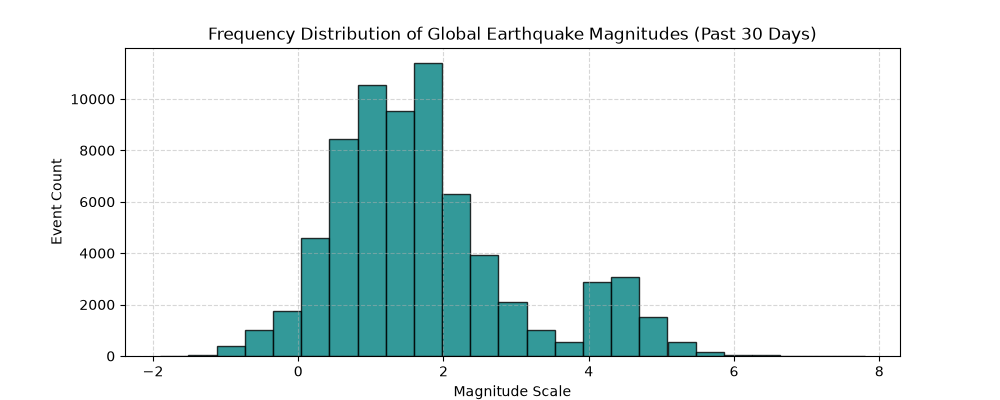
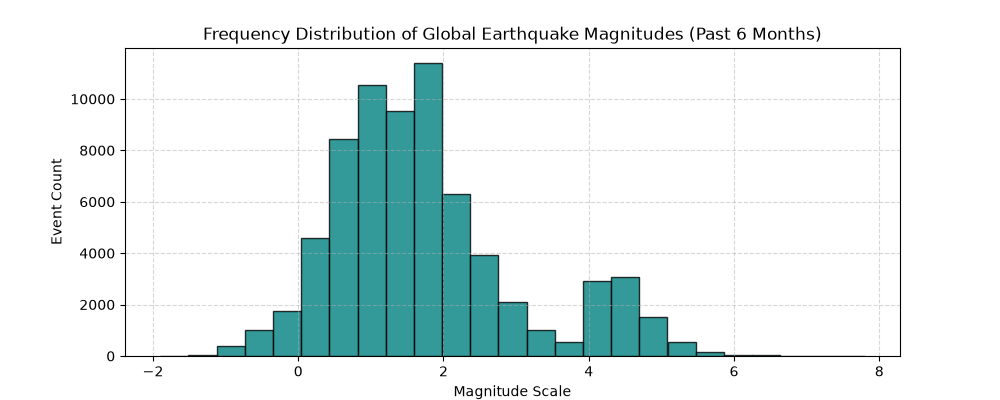
Fixed a issue with the pipeline needing to run in project folder vs in the repository root, also adjusted the analysis output to use a HTML report

Changed region(s): [[0.186, 0.06, 0.837, 0.12], [0.589, 0.69, 0.62, 0.72]]

diff --git a/project_report.html b/project_report.html
@@ -1,0 +1,131 @@
+
+    <!DOCTYPE html>
+    <html lang="en">
+    <head>
+        <meta charset="UTF-8">
+        <meta name="viewport" content="width=device-width, initial-scale=1.0">
+        <title>USGS Earthquake Pipeline Report</title>
+        <style>
+            body { font-family: Arial, sans-serif; margin: 32px; background: #f5f7fa; color: #1f2933; }
+            h1, h2 { color: #102a43; }
+            .panel { background: white; border-radius: 10px; padding: 20px; margin-bottom: 24px; box-shadow: 0 2px 8px rgba(0,0,0,0.05); }
+            .images { display: flex; flex-wrap: wrap; gap: 20px; }
+            .image-card { flex: 1 1 420px; background: white; padding: 12px; border-radius: 8px; border: 1px solid #d9e2ec; }
+            img { width: 100%; height: auto; border-radius: 6px; display: block; }
+            table { border-collapse: collapse; width: 100%; background: #fff; }
+            th, td { border: 1px solid #d9e2ec; padding: 10px; text-align: left; }
+            th { background: #eaf2f8; }
+            .metric { font-size: 1.1rem; font-weight: bold; }
+        </style>
+    </head>
+    <body>
+        <h1>USGS Earthquake Pipeline Report</h1>
+
+        <div class="panel">
+            <h2>Summary</h2>
+            <p class="metric">Depth/Magnitude Correlation: 0.36</p>
+            <p>This report combines the database queries and generated chart outputs for the latest earthquake dataset loaded by the pipeline.</p>
+        </div>
+
+        <div class="panel">
+            <h2>Most Dangerous Earthquakes</h2>
+            <table class="dataframe dataframe">
+  <thead>
+    <tr style="text-align: right;">
+      <th>place_name</th>
+      <th>mag</th>
+      <th>depth</th>
+      <th>time_timestamp</th>
+    </tr>
+  </thead>
+  <tbody>
+    <tr>
+      <td>25 km SW of Kablalan, Philippines</td>
+      <td>7.8</td>
+      <td>56.991</td>
+      <td>2026-06-07T23:37:41.970Z</td>
+    </tr>
+    <tr>
+      <td>66 km NNW of Ende, Indonesia</td>
+      <td>7.8</td>
+      <td>10.000</td>
+      <td>2026-08-14T21:58:21.561Z</td>
+    </tr>
+    <tr>
+      <td>12 km WSW of Pitaloza Arriba, Panama</td>
+      <td>7.7</td>
+      <td>12.647</td>
+      <td>2026-10-09T17:56:06.036Z</td>
+    </tr>
+    <tr>
+      <td>20 km W of Catia La Mar, Venezuela</td>
+      <td>7.5</td>
+      <td>10.000</td>
+      <td>2026-06-24T22:05:04.053Z</td>
+    </tr>
+    <tr>
+      <td>4 km SSW of San José del Palmar, Colombia</td>
+      <td>7.4</td>
+      <td>116.130</td>
+      <td>2026-08-10T12:34:28.828Z</td>
+    </tr>
+  </tbody>
+</table>
+        </div>
+
+        <div class="panel">
+            <h2>Magnitude Type Summary</h2>
+            <table class="dataframe dataframe">
+  <thead>
+    <tr style="text-align: right;">
+      <th>mag_type</th>
+      <th>total_events</th>
+      <th>average_magnitude</th>
+    </tr>
+  </thead>
+  <tbody>
+    <tr>
+      <td>ml</td>
+      <td>44196</td>
+      <td>1.43</td>
+    </tr>
+    <tr>
+      <td>md</td>
+      <td>16944</td>
+      <td>1.21</td>
+    </tr>
+    <tr>
+      <td>mb</td>
+      <td>7597</td>
+      <td>4.43</td>
+    </tr>
+    <tr>
+      <td>mww</td>
+      <td>753</td>
+      <td>5.32</td>
+    </tr>
+    <tr>
+      <td>mwr</td>
+      <td>192</td>
+      <td>4.23</td>
+    </tr>
+  </tbody>
+</table>
+        </div>
+
+        <div class="panel">
+            <h2>Generated Visual Outputs</h2>
+            <div class="images">
+                <div class="image-card">
+                    <h3>Magnitude Distribution</h3>
+                    <img src="earthquake_magnitude_distribution.png" alt="Earthquake magnitude distribution">
+                </div>
+                <div class="image-card">
+                    <h3>Depth vs. Magnitude</h3>
+                    <img src="depth_vs_magnitude.png" alt="Earthquake depth vs magnitude scatter plot">
+                </div>
+            </div>
+        </div>
+    </body>
+    </html>
+    

diff --git a/analysis.py b/analysis.py
@@ -1,8 +1,83 @@
 import sqlite3
 import pandas as pd
 import matplotlib.pyplot as plt
+from pathlib import Path
+import webbrowser
 
-DB_NAME = "earthquakes.db"
+PROJECT_ROOT = Path(__file__).resolve().parent
+DB_NAME = str(PROJECT_ROOT / "earthquakes.db")
+OUTPUT_DIR = PROJECT_ROOT
+
+
+def write_html_report(output_dir: Path, q1_df: pd.DataFrame, q2_df: pd.DataFrame, corr_value: float):
+    """Create an HTML summary page that includes the generated PNG figures and table results."""
+    q1_table = q1_df.to_html(index=False, classes="dataframe", border=0)
+    q2_table = q2_df.to_html(index=False, classes="dataframe", border=0)
+
+    report_path = output_dir / "project_report.html"
+    html = f"""
+    <!DOCTYPE html>
+    <html lang="en">
+    <head>
+        <meta charset="UTF-8">
+        <meta name="viewport" content="width=device-width, initial-scale=1.0">
+        <title>USGS Earthquake Pipeline Report</title>
+        <style>
+            body {{ font-family: Arial, sans-serif; margin: 32px; background: #f5f7fa; color: #1f2933; }}
+            h1, h2 {{ color: #102a43; }}
+            .panel {{ background: white; border-radius: 10px; padding: 20px; margin-bottom: 24px; box-shadow: 0 2px 8px rgba(0,0,0,0.05); }}
+            .images {{ display: flex; flex-wrap: wrap; gap: 20px; }}
+            .image-card {{ flex: 1 1 420px; background: white; padding: 12px; border-radius: 8px; border: 1px solid #d9e2ec; }}
+            img {{ width: 100%; height: auto; border-radius: 6px; display: block; }}
+            table {{ border-collapse: collapse; width: 100%; background: #fff; }}
+            th, td {{ border: 1px solid #d9e2ec; padding: 10px; text-align: left; }}
+            th {{ background: #eaf2f8; }}
+            .metric {{ font-size: 1.1rem; font-weight: bold; }}
+        </style>
+    </head>
+    <body>
+        <h1>USGS Earthquake Pipeline Report</h1>
+
+        <div class="panel">
+            <h2>Summary</h2>
+            <p class="metric">Depth/Magnitude Correlation: {corr_value:.2f}</p>
+            <p>This report combines the database queries and generated chart outputs for the latest earthquake dataset loaded by the pipeline.</p>
+        </div>
+
+        <div class="panel">
+            <h2>Most Dangerous Earthquakes</h2>
+            {q1_table}
+        </div>
+
+        <div class="panel">
+            <h2>Magnitude Type Summary</h2>
+            {q2_table}
+        </div>
+
+        <div class="panel">
+            <h2>Generated Visual Outputs</h2>
+            <div class="images">
+                <div class="image-card">
+                    <h3>Magnitude Distribution</h3>
+                    <img src="earthquake_magnitude_distribution.png" alt="Earthquake magnitude distribution">
+                </div>
+                <div class="image-card">
+                    <h3>Depth vs. Magnitude</h3>
+                    <img src="depth_vs_magnitude.png" alt="Earthquake depth vs magnitude scatter plot">
+                </div>
+            </div>
+        </div>
+    </body>
+    </html>
+    """
+    report_path.write_text(html, encoding="utf-8")
+    print(f"[SUCCESS] HTML report created at '{report_path.name}'.")
+
+    try:
+        webbrowser.open(report_path.as_uri())
+    except Exception as exc:
+        print(f"[WARNING] Could not open the report automatically: {exc}")
+
 
 def run_analysis():
     print("\nConnecting to database framework to isolate reporting metrics...")
@@ -26,7 +101,8 @@ def run_analysis():
             ORDER BY e.mag DESC
             LIMIT 5;
         """
-        print(pd.read_sql_query(sql_q1, conn).to_string(index=False))
+        q1_df = pd.read_sql_query(sql_q1, conn)
+        print(q1_df.to_string(index=False))
 
         # -----------------------------------------------------------------
         # Question 2 (Pure SQL): Counts and Averages by Magnitude Type
@@ -40,7 +116,8 @@ def run_analysis():
             ORDER BY total_events DESC
             LIMIT 5;
         """
-        print(pd.read_sql_query(sql_q2, conn).to_string(index=False))
+        q2_df = pd.read_sql_query(sql_q2, conn)
+        print(q2_df.to_string(index=False))
 
         # -----------------------------------------------------------------
         # Question 3 (Python Tooling): Overall Magnitude Frequency Distribution
@@ -54,7 +131,7 @@ def run_analysis():
             plt.xlabel("Magnitude Scale")
             plt.ylabel("Event Count")
             plt.grid(True, linestyle="--", alpha=0.5)
-            plt.savefig('earthquake_magnitude_distribution.png')
+            plt.savefig(OUTPUT_DIR / 'earthquake_magnitude_distribution.png')
             plt.close()
             print("[SUCCESS] Distribution curve chart saved as 'earthquake_magnitude_distribution.png'.")
         except Exception as e:
@@ -66,17 +143,21 @@ def run_analysis():
         print("\n--- Question 4: Analyzing Event Depth vs. Magnitude Correlation (Python Tooling) ---")
         try:
             df_q4 = pd.read_sql_query("SELECT depth, mag FROM earthquakes WHERE depth IS NOT NULL AND mag IS NOT NULL;", conn)
+            corr_value = df_q4['depth'].corr(df_q4['mag'])
             plt.figure(figsize=(10, 5))
             plt.scatter(df_q4['depth'], df_q4['mag'], alpha=0.3, color='purple', s=8)
             plt.title("Seismic Event Depth vs. Resulting Magnitude")
             plt.xlabel("Depth (km)")
             plt.ylabel("Magnitude")
             plt.grid(True, linestyle="--", alpha=0.5)
-            plt.savefig('depth_vs_magnitude.png')
+            plt.savefig(OUTPUT_DIR / 'depth_vs_magnitude.png')
             plt.close()
             print("[SUCCESS] Scatter plot correlation asset saved as 'depth_vs_magnitude.png'.")
             
-            print(f"Calculated Depth/Magnitude Correlation: {df_q4['depth'].corr(df_q4['mag']):.2f}")
+            corr_value = float(corr_value) if pd.notna(corr_value) else 0.0
+            print(f"Calculated Depth/Magnitude Correlation: {corr_value:.2f}")
+
+            write_html_report(OUTPUT_DIR, q1_df, q2_df, corr_value)
         except Exception as e:
             print(f"[ERROR] Plotting Question 4 failed: {e}")
 

diff --git a/tests/test_pipeline.py b/tests/test_pipeline.py
@@ -1,10 +1,29 @@
 import os
 import sqlite3
+from pathlib import Path
 import pytest
 from unittest.mock import patch, MagicMock
 
 # Import functions directly from your updated pipeline module
 from pipeline import setup_database, fetch_and_ingest_earthquakes
+from analysis import run_analysis
+
+
+def test_database_setup_works_from_any_working_directory(tmp_path, monkeypatch):
+    """Setup should resolve files relative to the project folder, not the caller's current directory."""
+    import pipeline
+
+    original_cwd = os.getcwd()
+    original_db = pipeline.DB_NAME
+
+    try:
+        monkeypatch.chdir(tmp_path)
+        pipeline.DB_NAME = str(tmp_path / "earthquakes.db")
+        setup_database()
+        assert os.path.exists(tmp_path / "earthquakes.db")
+    finally:
+        os.chdir(original_cwd)
+        pipeline.DB_NAME = original_db
 
 TEST_DB = "test_earthquakes.db"
 
@@ -75,3 +94,46 @@ def test_pipeline_idempotency(mock_get, clean_db):
         cursor = conn.cursor()
         cursor.execute("SELECT COUNT(*) FROM earthquakes;")
         assert cursor.fetchone()[0] == 1
+
+
+def test_analysis_generates_html_report(tmp_path, monkeypatch):
+    """The analysis step should emit a single HTML report that embeds the generated PNGs."""
+    import pipeline
+
+    original_db = pipeline.DB_NAME
+    original_cwd = os.getcwd()
+    report_path = Path(__file__).resolve().parent.parent / "project_report.html"
+
+    try:
+        monkeypatch.chdir(tmp_path)
+        pipeline.DB_NAME = str(tmp_path / "earthquakes.db")
+        setup_database()
+
+        with sqlite3.connect(pipeline.DB_NAME) as conn:
+            conn.execute(
+                "INSERT INTO locations (place_name) VALUES (?)",
+                ("Test Place",)
+            )
+            conn.execute(
+                "INSERT INTO earthquakes (event_id, time_timestamp, latitude, longitude, depth, mag, mag_type, location_id) VALUES (?, ?, ?, ?, ?, ?, ?, ?)",
+                ("evt-1", "2026-10-15T00:00:00Z", 0.0, 0.0, 100.0, 5.5, "ml", 1)
+            )
+            conn.commit()
+
+        import analysis
+        analysis.DB_NAME = str(tmp_path / "earthquakes.db")
+        analysis.OUTPUT_DIR = Path(tmp_path)
+        analysis.run_analysis()
+
+        assert (tmp_path / "project_report.html").exists()
+        assert (tmp_path / "earthquake_magnitude_distribution.png").exists()
+        assert (tmp_path / "depth_vs_magnitude.png").exists()
+    finally:
+        os.chdir(original_cwd)
+        pipeline.DB_NAME = original_db
+        for path in [tmp_path / "earthquakes.db", tmp_path / "earthquake_magnitude_distribution.png", tmp_path / "depth_vs_magnitude.png", tmp_path / "project_report.html", report_path]:
+            if path.exists():
+                try:
+                    path.unlink()
+                except OSError:
+                    pass

diff --git a/pipeline.py b/pipeline.py
@@ -3,15 +3,18 @@ import pandas as pd
 import requests
 from io import StringIO
 import time
+from pathlib import Path
 
-DB_NAME = "earthquakes.db"
+PROJECT_ROOT = Path(__file__).resolve().parent
+DB_NAME = str(PROJECT_ROOT / "earthquakes.db")
 BASE_URL = "https://earthquake.usgs.gov/fdsnws/event/1/query?format=csv"
+SCHEMA_PATH = PROJECT_ROOT / "schema.sql"
 
 def setup_database():
     """Reads schema.sql and prepares clean local SQLite tables."""
     print("Initializing database schema...")
     with sqlite3.connect(DB_NAME) as conn:
-        with open("schema.sql", "r") as f:
+        with open(SCHEMA_PATH, "r") as f:
             conn.executescript(f.read())
         conn.commit()
 
